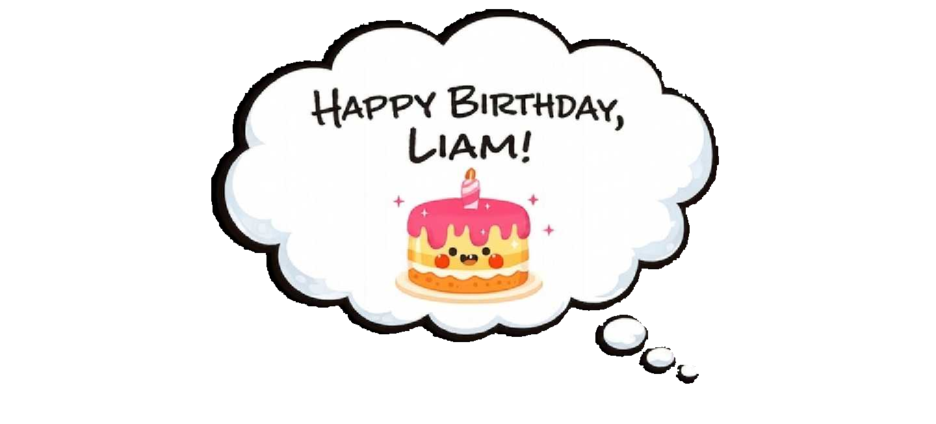
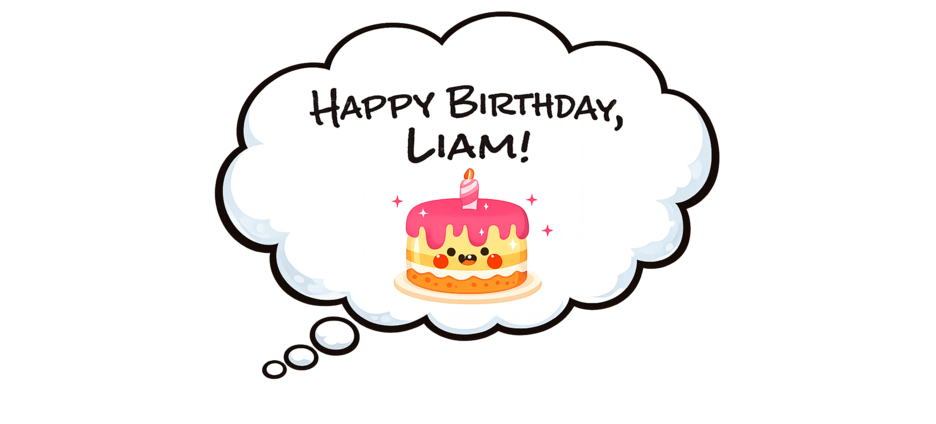
Update birthday project

diff --git a/script-mobile.js b/script-mobile.js
@@ -420,13 +420,17 @@ function animateWalk(el, body, a){
   step();
 }
 
-/* Positions the bubble centered on the animal, clamped so it never
-   renders off-screen for animals near the edges. */
-function positionAnimalBubble(bubble, rect){
+/* Positions the bubble AHEAD of the animal in whichever direction it's
+   facing (not centered on top of it) — a cat walking right gets its
+   bubble out in front to the right, not straddling/behind where it's
+   already passed. Still clamped so it never renders off-screen. */
+function positionAnimalBubble(bubble, rect, facing){
   const margin = 12;
   const bw = bubble.offsetWidth || 220;
   const bh = bubble.offsetHeight || 140;
-  const idealLeft = rect.left + rect.width / 2;
+  const aheadOffset = rect.width * 0.85;
+  const animalCenter = rect.left + rect.width / 2;
+  const idealLeft = facing === -1 ? animalCenter - aheadOffset : animalCenter + aheadOffset;
   const minLeft = margin + bw / 2;
   const maxLeft = window.innerWidth - margin - bw / 2;
   const clampedLeft = Math.min(maxLeft, Math.max(minLeft, idealLeft));
@@ -439,15 +443,17 @@ function positionAnimalBubble(bubble, rect){
    the artwork itself, no text is ever overlaid or shown as a fallback.
    Which graphic to use is based on which way the animal is currently
    facing (facing 1 = walking/facing right, -1 = left), tracked via
-   el.dataset.facing in animateWalk: an animal facing right uses
-   thought-bubble-left.png (tail trailing back over its shoulder), and
-   one facing left uses thought-bubble-right.png. If a specific variant
-   is missing, this falls back to the plain thought-bubble.png — never
-   to text. */
+   el.dataset.facing in animateWalk: an animal facing right gets the
+   bubble positioned ahead to its right, using thought-bubble-left.png
+   (tail trailing back-left toward the animal); one facing left gets
+   thought-bubble-right.png positioned ahead to its left. There is no
+   plain/default thought-bubble.png anymore — if one variant fails to
+   load, this falls back to the other rather than to any text. */
 function buildAnimalBubbleHTML(facing){
   const src = facing === -1 ? "images/thought-bubble-right.png" : "images/thought-bubble-left.png";
+  const fallbackSrc = facing === -1 ? "images/thought-bubble-left.png" : "images/thought-bubble-right.png";
   return `<img class="animalBubbleImg" src="${src}" alt="Happy Birthday, Liam!" loading="eager" ` +
-    `onerror="this.onerror=null; this.src='images/thought-bubble.png';">`;
+    `onerror="this.onerror=null; this.src='${fallbackSrc}';">`;
 }
 
 function triggerPose(el, body, a, sharedBubble){
@@ -466,7 +472,7 @@ function triggerPose(el, body, a, sharedBubble){
   const rect = body.getBoundingClientRect();
   const facing = parseInt(el.dataset.facing || "1", 10);
   sharedBubble.innerHTML = buildAnimalBubbleHTML(facing);
-  positionAnimalBubble(sharedBubble, rect);
+  positionAnimalBubble(sharedBubble, rect, facing);
   sharedBubble.classList.remove("hide");
   sharedBubble.classList.add("show");
 

diff --git a/script.js b/script.js
@@ -304,13 +304,17 @@ function dropPaws(el, duration){
   }
 }
 
-/* Positions the bubble centered on the animal, clamped so it never
-   renders off-screen for animals near the edges. */
-function positionAnimalBubble(bubble, rect){
+/* Positions the bubble AHEAD of the animal in whichever direction it's
+   facing (not centered on top of it) — a cat walking right gets its
+   bubble out in front to the right, not straddling/behind where it's
+   already passed. Still clamped so it never renders off-screen. */
+function positionAnimalBubble(bubble, rect, facing){
   const margin = 12;
   const bw = bubble.offsetWidth || 300;
   const bh = bubble.offsetHeight || 200;
-  const idealLeft = rect.left + rect.width / 2;
+  const aheadOffset = rect.width * 0.85;
+  const animalCenter = rect.left + rect.width / 2;
+  const idealLeft = facing === -1 ? animalCenter - aheadOffset : animalCenter + aheadOffset;
   const minLeft = margin + bw / 2;
   const maxLeft = window.innerWidth - margin - bw / 2;
   const clampedLeft = Math.min(maxLeft, Math.max(minLeft, idealLeft));
@@ -323,15 +327,17 @@ function positionAnimalBubble(bubble, rect){
    the artwork itself, no text is ever overlaid or shown as a fallback.
    Which graphic to use is based on which way the animal is currently
    facing (facing 1 = walking/facing right, -1 = left), tracked via
-   el.dataset.facing in animateWalk: an animal facing right uses
-   thought-bubble-left.png (tail trailing back over its shoulder), and
-   one facing left uses thought-bubble-right.png. If a specific variant
-   is missing, this falls back to the plain thought-bubble.png — never
-   to text. */
+   el.dataset.facing in animateWalk: an animal facing right gets the
+   bubble positioned ahead to its right, using thought-bubble-left.png
+   (tail trailing back-left toward the animal); one facing left gets
+   thought-bubble-right.png positioned ahead to its left. There is no
+   plain/default thought-bubble.png anymore — if one variant fails to
+   load, this falls back to the other rather than to any text. */
 function buildAnimalBubbleHTML(facing){
   const src = facing === -1 ? "images/thought-bubble-right.png" : "images/thought-bubble-left.png";
+  const fallbackSrc = facing === -1 ? "images/thought-bubble-left.png" : "images/thought-bubble-right.png";
   return `<img class="animalBubbleImg" src="${src}" alt="Happy Birthday, Liam!" loading="eager" ` +
-    `onerror="this.onerror=null; this.src='images/thought-bubble.png';">`;
+    `onerror="this.onerror=null; this.src='${fallbackSrc}';">`;
 }
 
 function animateWalk(el, body, a){
@@ -397,7 +403,7 @@ function buildAnimals(){
       const rect = body.getBoundingClientRect();
       const facing = parseInt(el.dataset.facing || "1", 10);
       sharedBubble.innerHTML = buildAnimalBubbleHTML(facing);
-      positionAnimalBubble(sharedBubble, rect);
+      positionAnimalBubble(sharedBubble, rect, facing);
       sharedBubble.classList.remove("hide");
       sharedBubble.classList.add("show");
 

diff --git a/styles-mobile.css b/styles-mobile.css
@@ -328,12 +328,10 @@ html,body{
   animation:pawFade 8s ease-out forwards;}
 @keyframes pawFade{0%{opacity:1;}75%{opacity:.6;}100%{opacity:0;}}
 
-/* The animal thought-bubble is just images/thought-bubble.png shown at
-   this size — the message and its own tail are baked into that image,
-   so there's no separate text/icon/tail styling needed here anymore. */
-/* The animal thought-bubble is just images/thought-bubble.png shown at
-   this size — the message and its own tail are baked into that image,
-   so there's no separate text/icon/tail styling needed here anymore.
+/* The animal thought-bubble is images/thought-bubble-left.png or
+   thought-bubble-right.png (picked by facing direction in script-mobile.js)
+   — the message and each variant's own tail are baked into that artwork,
+   so there's no separate text/icon/tail styling needed here.
 
    left/top only ever get set by JS at the moment an animal is tapped
    (triggerPose in script-mobile.js). Before that first tap, "left/top:

diff --git a/styles.css b/styles.css
@@ -279,9 +279,10 @@ html,body{
   animation:pawFade 8s ease-out forwards;}
 @keyframes pawFade{0%{opacity:1;}75%{opacity:.6;}100%{opacity:0;}}
 
-/* The animal thought-bubble is just images/thought-bubble.png shown at
-   this size — the message and its own tail are baked into that image,
-   so there's no separate text/icon/tail styling needed here anymore. */
+/* The animal thought-bubble is images/thought-bubble-left.png or
+   thought-bubble-right.png (picked by facing direction in script.js) —
+   this size — the message and each variant's own tail are baked into
+   that artwork, so there's no separate text/icon/tail styling needed here. */
 #animalBubble{
   position:fixed;z-index:55;
   transform:translate(-50%,-100%) scale(0.9);

diff --git a/characters-data.js b/characters-data.js
@@ -82,7 +82,8 @@ const CHARACTERS = [
 
 const CHAR_BY_KEY = Object.fromEntries(CHARACTERS.map(c => [c.key, c]));
 
-/* The animal thought-bubble is just images/thought-bubble.png shown as-is —
+/* The animal thought-bubble is images/thought-bubble-left.png or
+   thought-bubble-right.png, picked by which way the animal is facing —
    the "Happy Birthday, Liam!" message is baked into that image itself, so
    there's no text/icon to overlay dynamically here anymore. */
 

diff --git a/index.html b/index.html
@@ -36,7 +36,7 @@
     <div id="charLayer"></div>
 
     <div id="grass"></div>
-    <div id="animalBubble"><img src="images/thought-bubble.png" alt="Happy Birthday, Liam!"></div>
+    <div id="animalBubble"></div>
 
     <div id="layoutPanel">
       <div id="layoutPanelHeader">Layout Editor <button id="layoutMinBtn">➖</button></div>
